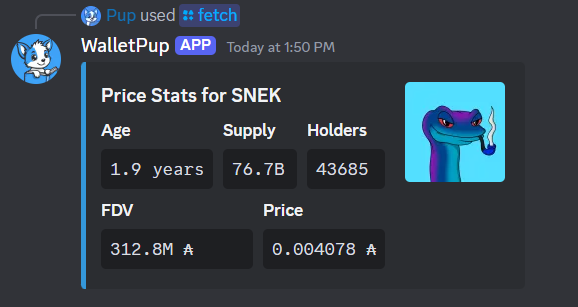
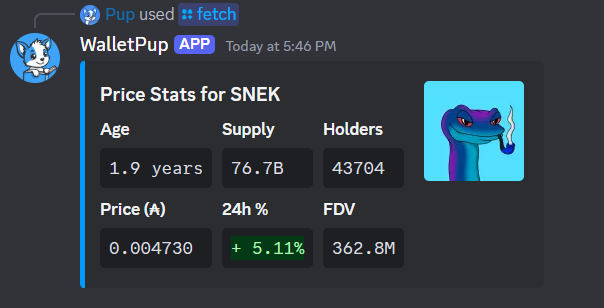
docs: update token info display and command descriptions

diff --git a/src/pages/Commands.tsx b/src/pages/Commands.tsx
@@ -153,13 +153,13 @@ const CommandCard = ({ command, onPreviewClick }: { command: any, onPreviewClick
         return {
           title: 'Token Leaderboard',
           desc: 'View top token holders',
-          details: "Project owners can view their Discord members' wallets and see how much of their token they hold. This command displays the top 20 users, helping track community engagement and token distribution."
+          details: "Project owners can view their Discord members wallets and see how much of their token they hold. This command displays the top 20 users, helping track community engagement and token distribution."
         };
       case '/fetch':
         return {
           title: 'Token Market Data',
           desc: 'Get token price and market info',
-          details: "Retrieve current market data for your servers tracked token including price, fully diluted valuation (FDV), holder count, age and supply. Available to all users for quick market insights."
+          details: "Retrieve current market data for your servers tracked token including price,24 change, fully diluted valuation (FDV), holder count, age and supply. Available to all users for quick token insights."
         };
       case '/sentiment':
         return {

diff --git a/src/pages/Whitepaper.tsx b/src/pages/Whitepaper.tsx
@@ -1175,10 +1175,9 @@ const Whitepaper = () => {
                         Access real time market data for your token with the /fetch command. Get instant insights into your token's performance:
                       </p>
                       <ul className="list-disc list-inside text-blue-100 space-y-2 ml-4">
-                        <li>Current price and market valuation</li>
+                        <li>Current price and daily % change</li>
                         <li>Total holder count and distribution</li>
                         <li>Token age and circulating supply</li>
-                        <li>Fully diluted valuation (FDV)</li>
                       </ul>
                     </div>
                   </div>
